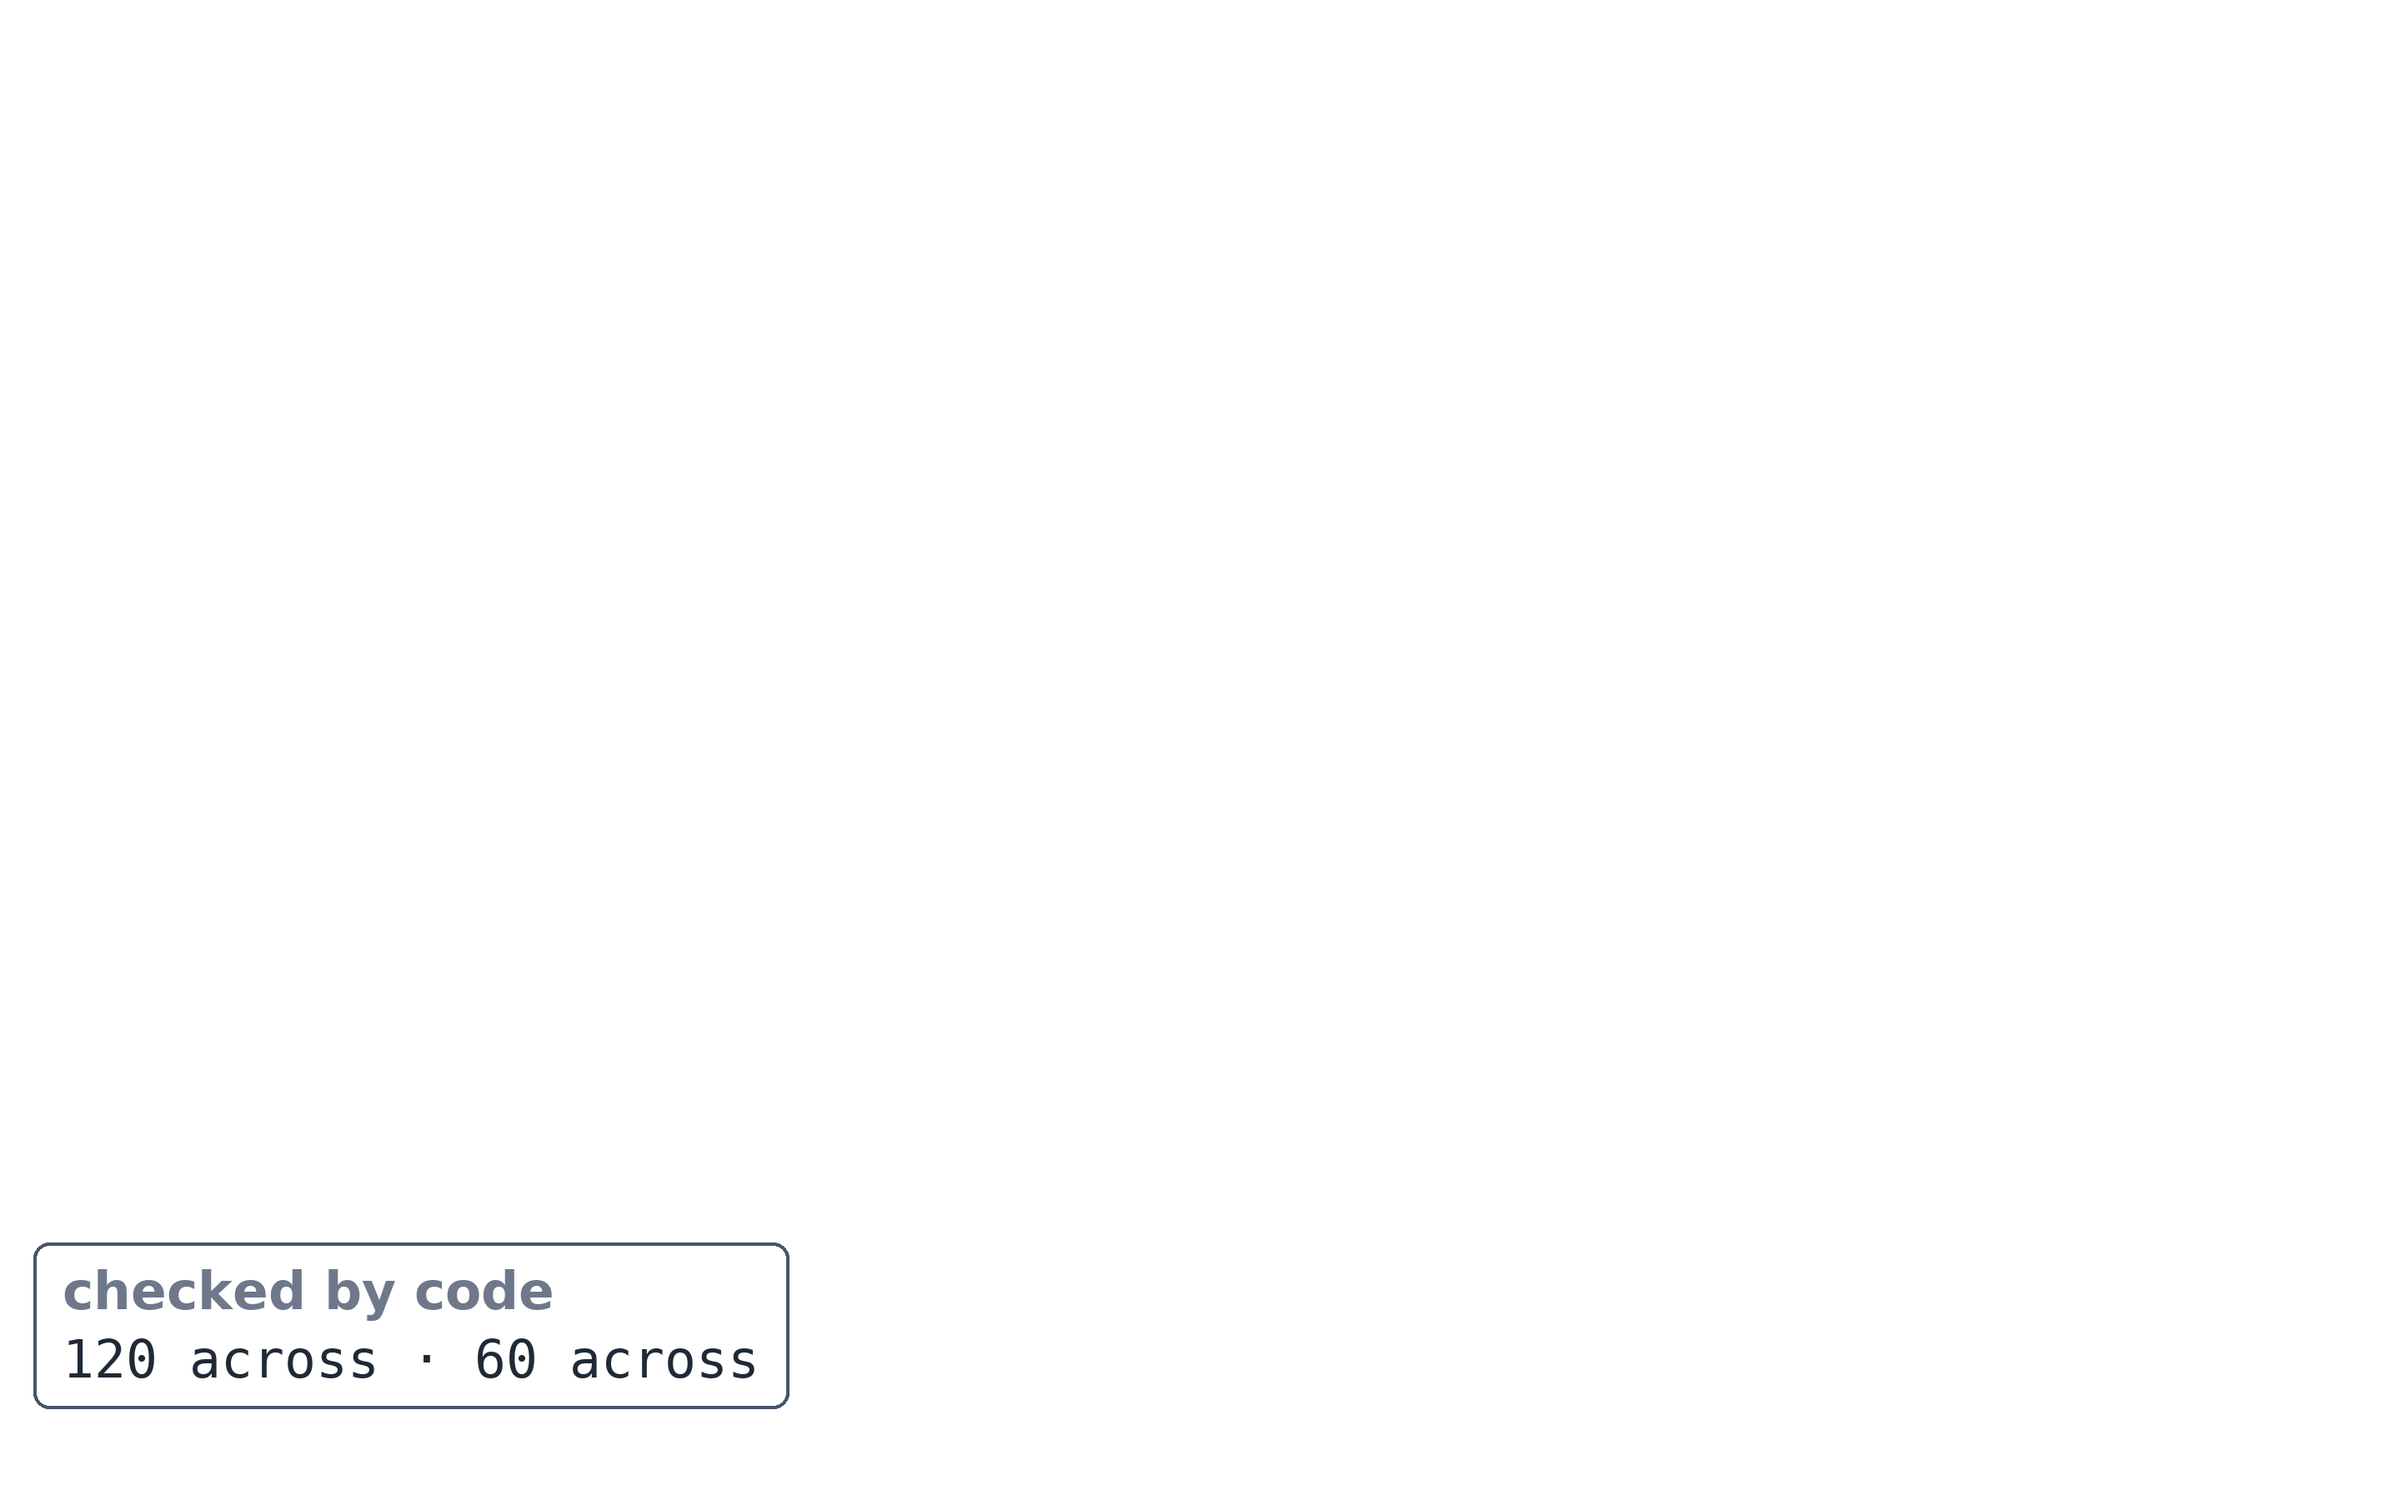
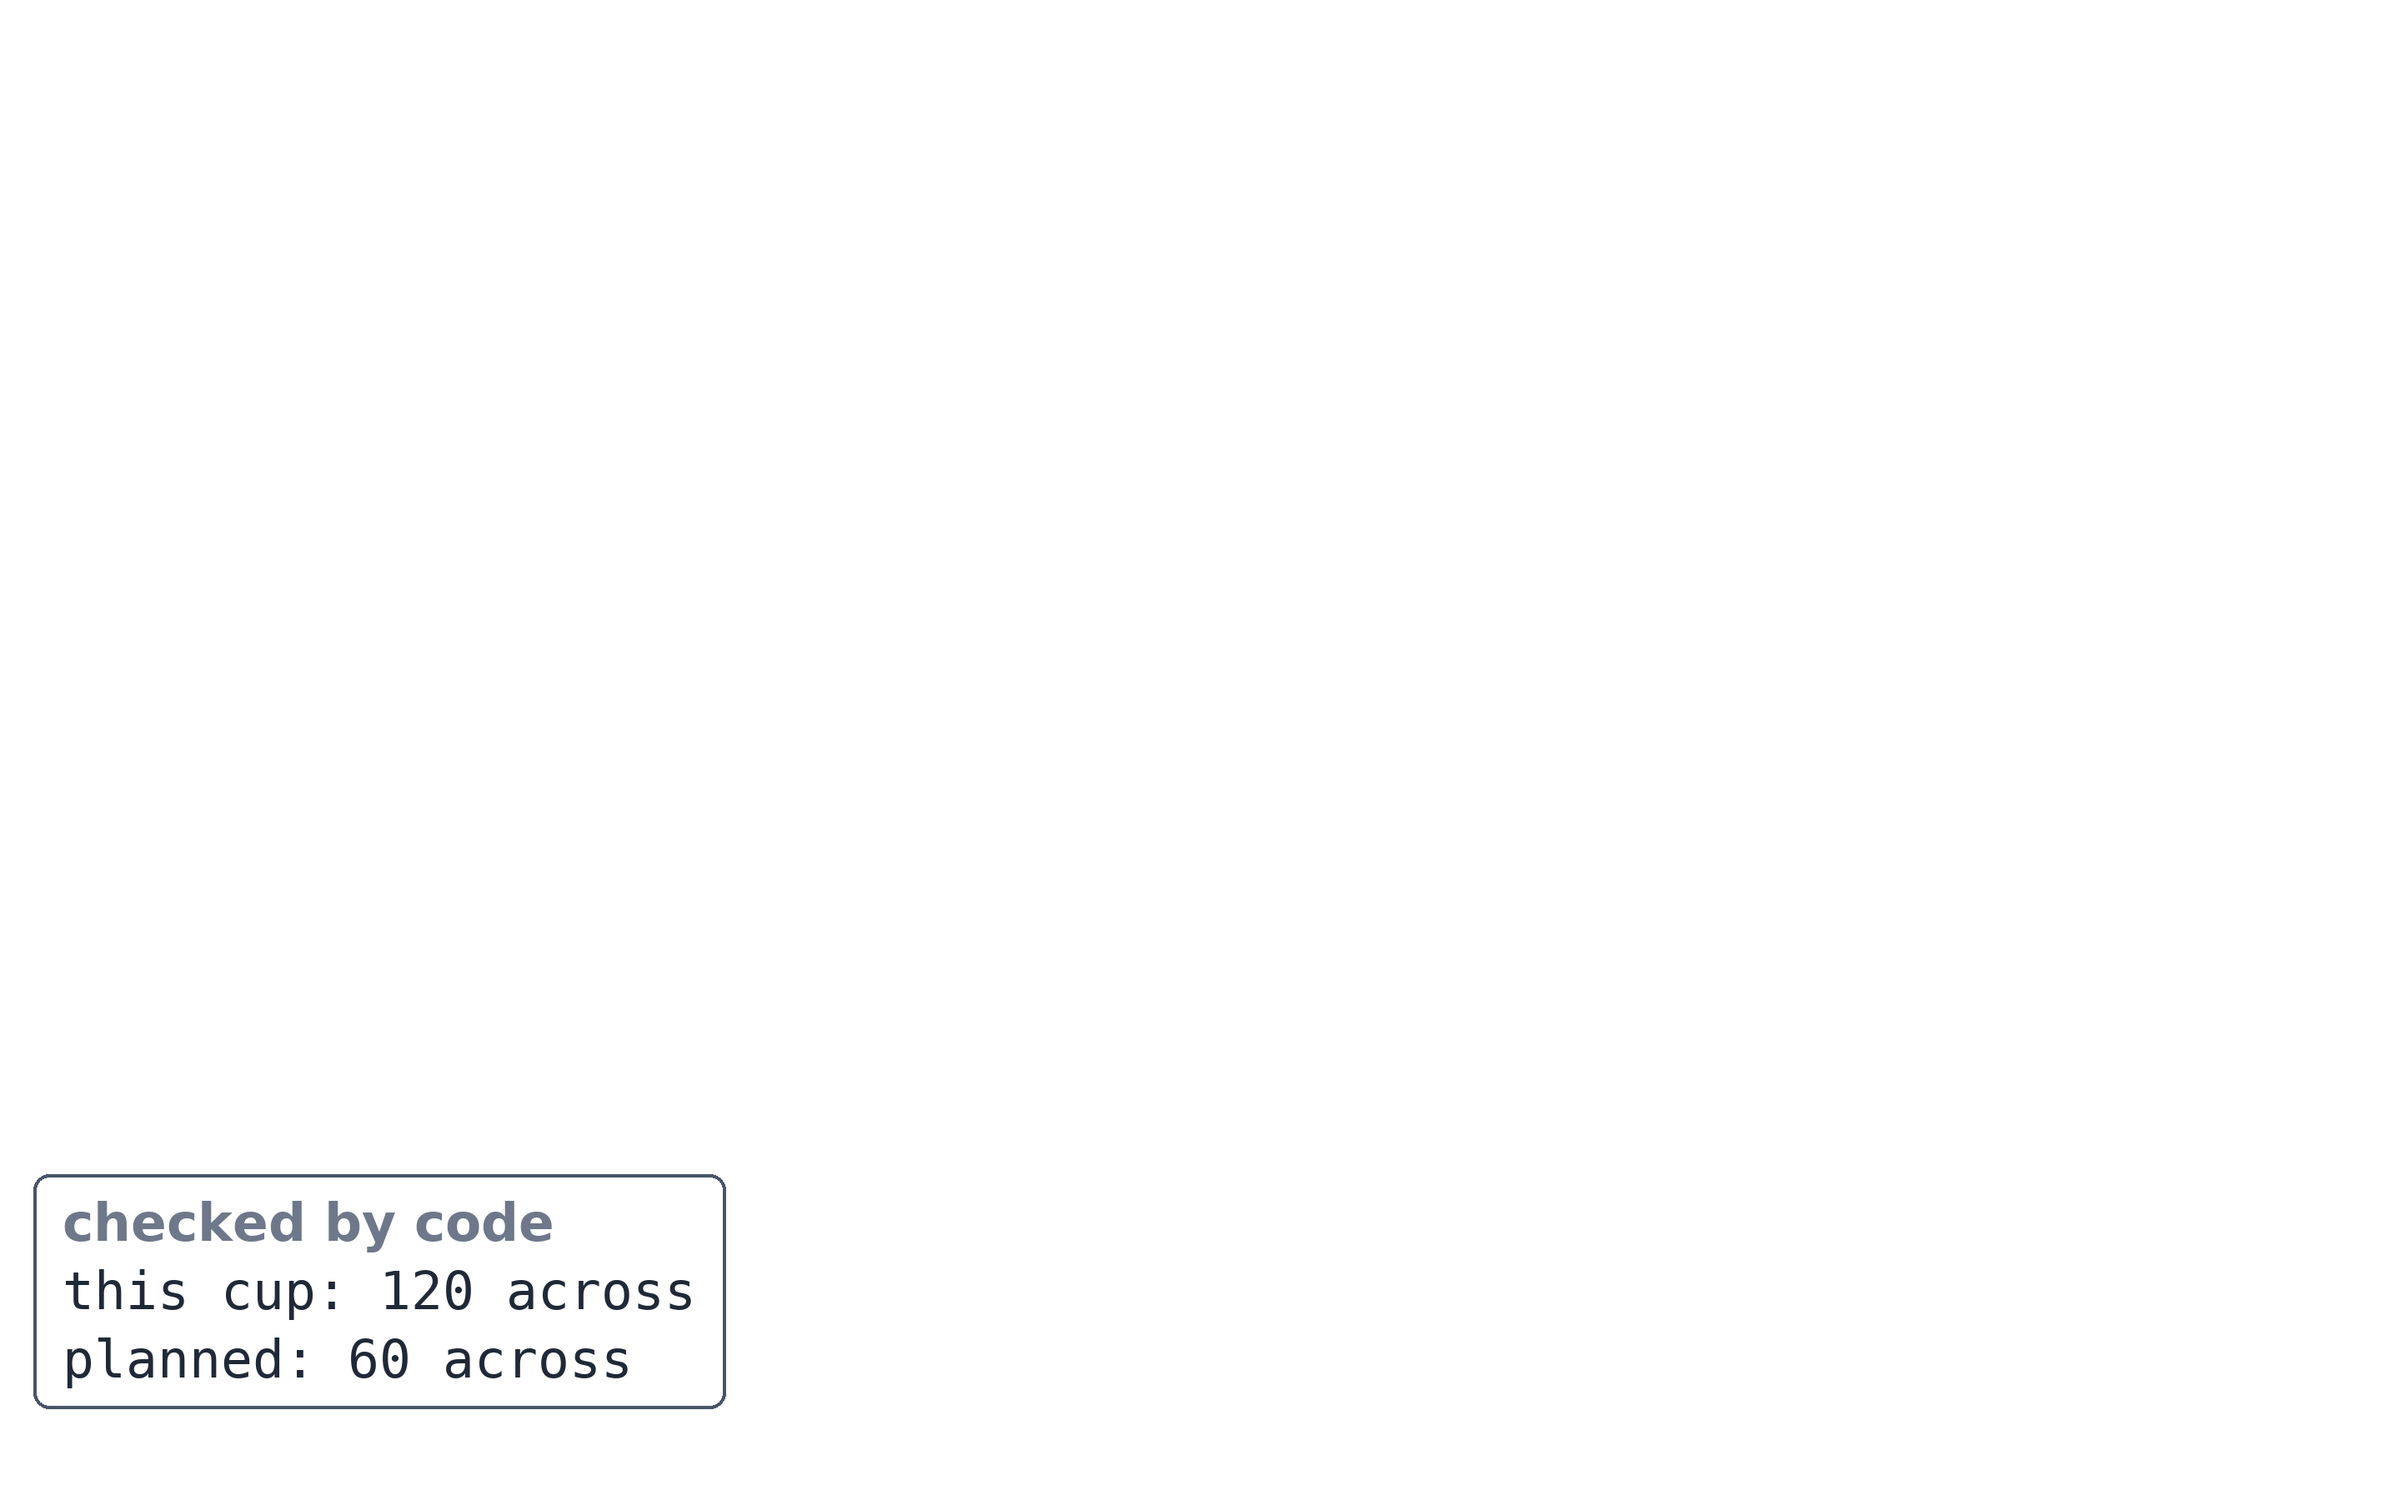
fc18 cut 3: panels say which cup (this cup / planned), drop 'inside 56', name SolidCraft and FreeCAD; Short patches white

Changed region(s): [[0.0, 0.7778, 0.3125, 0.9333]]

diff --git a/video/draw_fc18.py b/video/draw_fc18.py
@@ -141,7 +141,7 @@ def chips():
 def panels():
     tr, fx, q5 = NUM['q3_trap'], NUM['q4_fix'], NUM['q5']
     assert tr['outside_x'] == 120.0 and fx['outside_x'] == 60.0
-    f17.code_panel('ov-in-F1.png', ['120 across · 60 across'], PANEL_LL)
+    f17.code_panel('ov-in-F1.png', ['this cup: 120 across', 'planned: 60 across'], PANEL_LL)   # c2 watch: say which is which
     v = ['120 across: ' + r(tr['volume']) + ' mm³', '60 across: ' + r(fx['volume']) + ' mm³']
     assert abs(NUM['volume_ratio_trap_to_fix'] - 2.36) < 0.01
     f17.code_panel('ov-in-F7.png', v + ['about 2.4 × the plastic'], PANEL_LL)
@@ -154,7 +154,7 @@ def panels():
     f17.code_panel('ov-in-A1.png', ['run 1 file: 60, 80, 45 across', 'width = diameter / 2'], f17.CC_PANEL)
     f17.code_panel('ov-in-B1.png', ['run 2 file: 60, 80, 45 across', 'width = diameter / 2'], f17.CC_PANEL)
     assert fx['inside'] == 56.0
-    f17.code_panel('ov-in-F8.png', ['60.00 across · inside 56'], PANEL_LL)
+    f17.code_panel('ov-in-F8.png', ['this cup: 60.00 across'], PANEL_LL)   # c2 watch: 'inside 56' was never spoken
 
 
 # --- F11 / F12: Claude's replies as excerpt strips (whole terminal first in the footage, then these) ----------------
@@ -221,7 +221,7 @@ def still_reply(run, step):
 RECAP = ['Revolve spins a half-section', 'width = radius = diameter / 2']
 TURN = ['Your turn: a vase 45 across.', 'What width goes in the sketch?', '45 in the width: how wide?']
 SUB = [['Coming up: Claude Code on a', 'local model, Gemma 4 via Ollama'],
-       ['Every fix tested in both programs,', 'by hand and with Claude · Subscribe']]
+       ['Every fix tested in SolidCraft and FreeCAD,', 'by hand and with Claude · Subscribe']]
 
 
 def short_overlays():
@@ -236,7 +236,7 @@ def short_overlays():
     # take S stacked (VIEW_Y 236, 0.5 scale): the 120 cup's rim spans y ~306-510, so its label sits on the body below
     # the rim (like the 60 label); light patches (FreeCAD grey) hide the nav cube corner of each half
     for y0, y1 in ((236, 302), (776, 846)):
-        d.rectangle((696, y0, 830, y1), fill=(245, 245, 245, 255))
+        d.rectangle((696, y0, 830, y1), fill=(255, 255, 255, 255))   # frame 1 dims overlays ~0.86: 255 lands nearest the 225 grey
     big_label(d, 540, 540, '120 across', RED, px=84)
     big_label(d, 540, 1000, '60 across', GREEN, px=84)
     save(im, 'short-tile.png')

diff --git a/tests/test_draw_fc18.py b/tests/test_draw_fc18.py
@@ -70,7 +70,7 @@ def test_new_code_panels(drawn):
     """lab 29f31b3: run one's file panel (Claude frames, FreeCAD side) and the fix's 60.00 / inside 56 panel."""
     assert texts('ov-in-A1.png') == ['checked by code', 'run 1 file: 60, 80, 45 across', 'width = diameter / 2']
     assert texts('ov-in-B1.png') == ['checked by code', 'run 2 file: 60, 80, 45 across', 'width = diameter / 2']
-    assert texts('ov-in-F8.png') == ['checked by code', '60.00 across · inside 56']
+    assert texts('ov-in-F8.png') == ['checked by code', 'this cup: 60.00 across']
     assert d.NUM['q4_fix']['inside'] == 56.0
 
 
